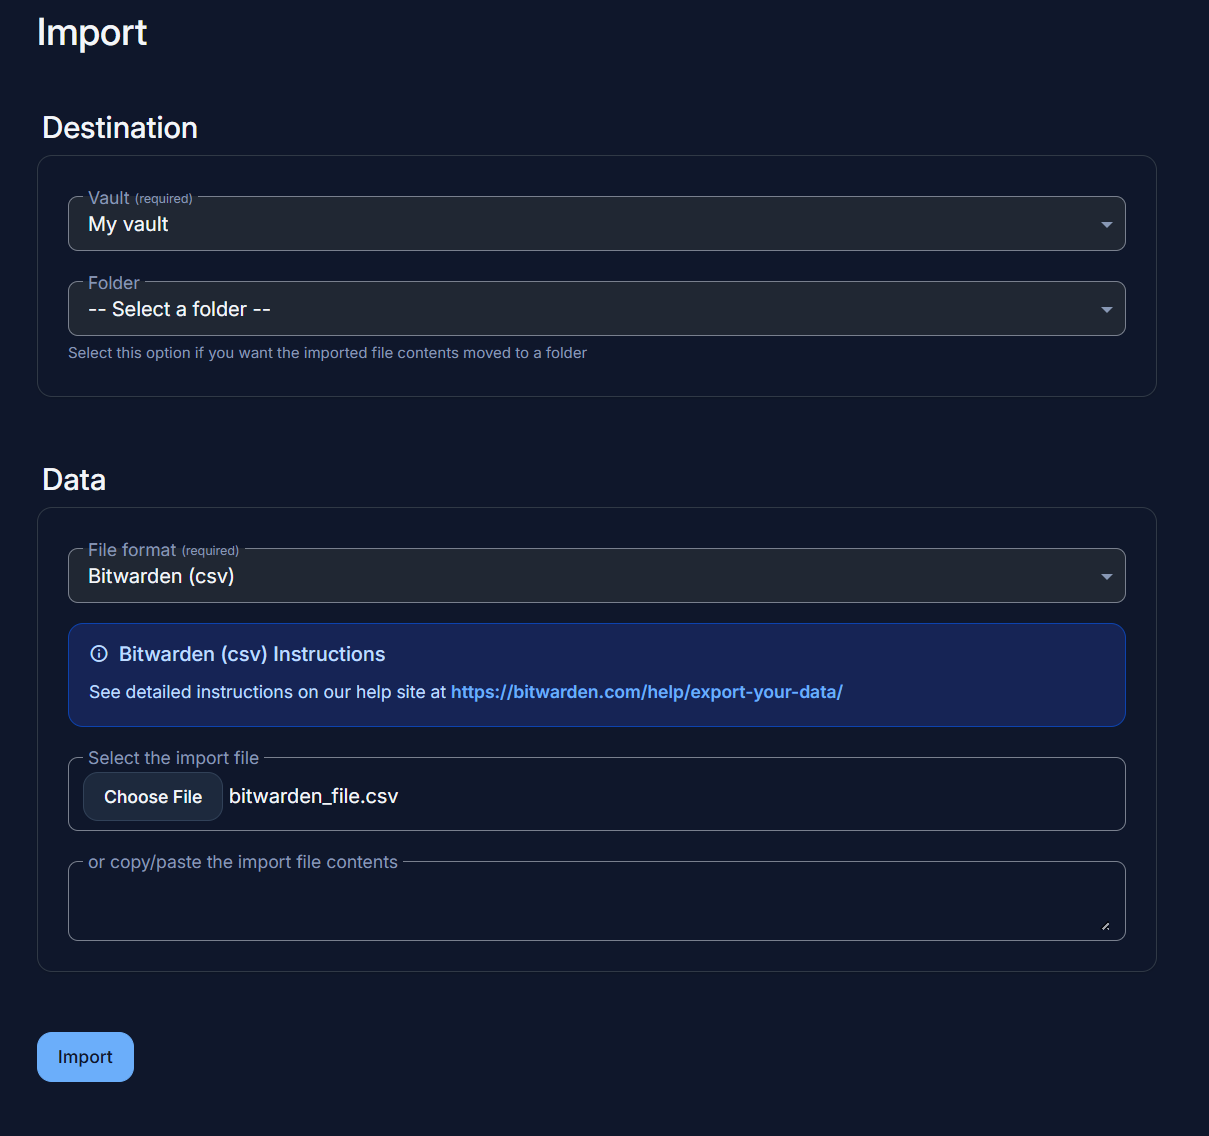
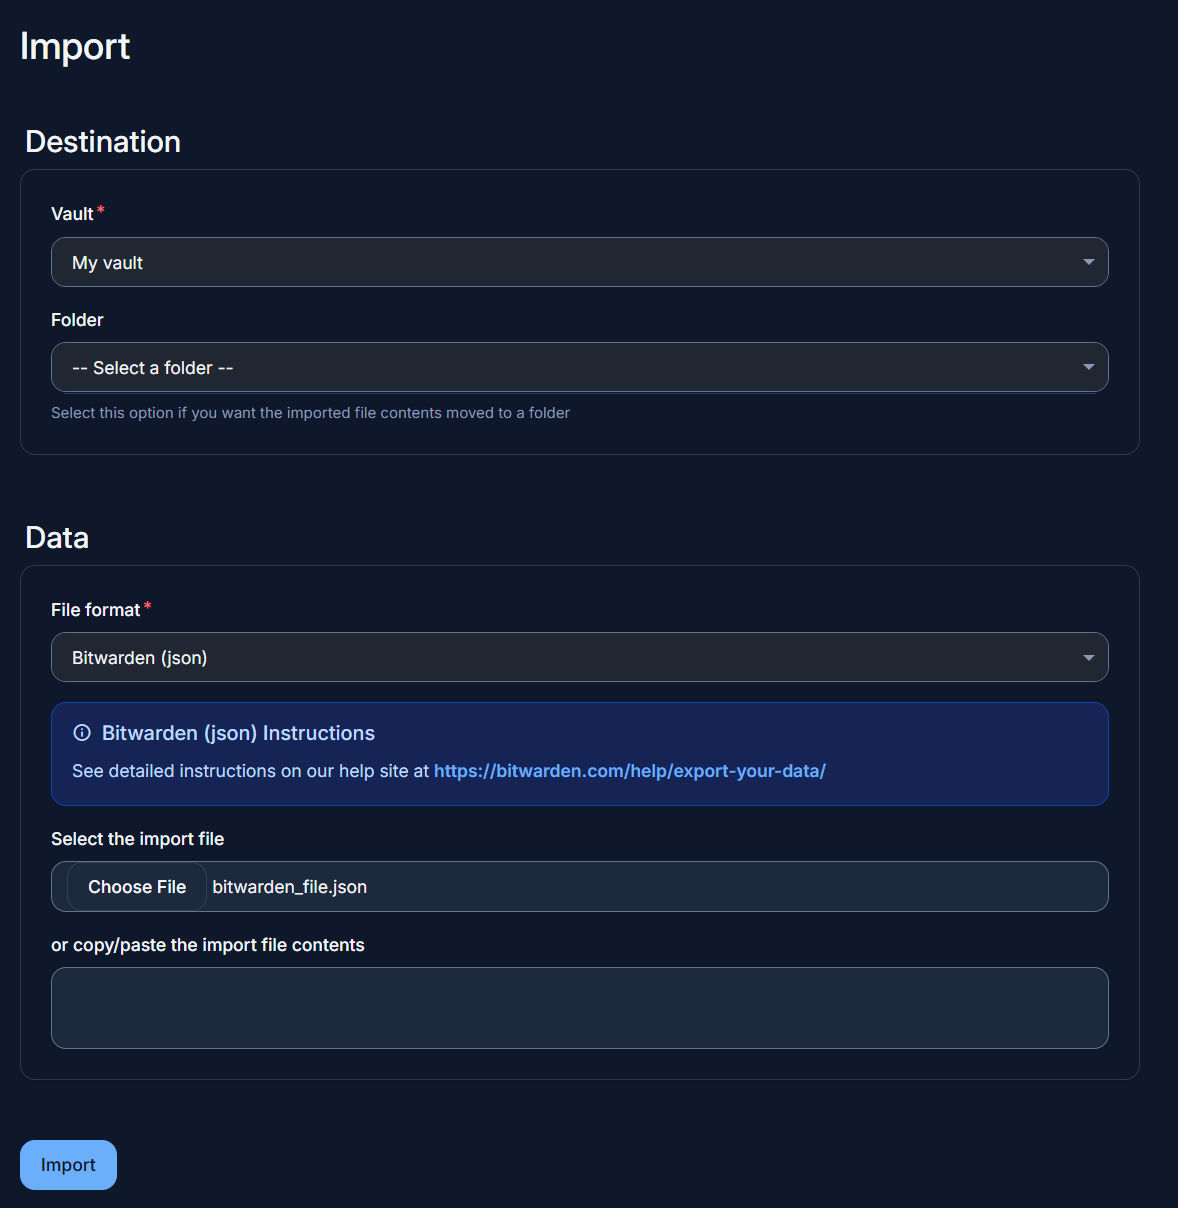
Update readme and import wizard screenshot

diff --git a/README.md b/README.md
@@ -1,7 +1,7 @@
 # SynologyC2Password to Bitwarden formatter/translater
 
 ## Description
-Converts a Synology C2 Password export (`.csv`) into a Bitwarden/Vaultwarden importable `.csv`.
+Converts a Synology C2 Password export (`.csv`) into a Bitwarden/Vaultwarden importable `.json` (logins, payment cards, and secure notes ONLY).
 
 ## Getting Started
 First, let's export those juicy passwords from Synology C2 Password:
@@ -19,7 +19,7 @@ Now follow the steps for your OS.
     - Windows Defender SmartScreen may warn you because I'm not a verified publisher. Click `More info` then `Run anyway`.
 2. Put `syno2bw.exe` in the **same folder** as your exported Synology C2 `.csv` file.
 3. **Double-click `syno2bw.exe`.** That's it.
-    - It finds your export, asks you to confirm, converts it, and saves `bitwarden_file.csv` in the same folder.
+    - It finds your export, asks you to confirm, converts it, and saves `bitwarden_file.json` in the same folder.
     - The window stays open so you can read the results (and any skipped entries). Press Enter to close it.
 
 **Tip:** You can also drag your exported `.csv` straight onto `syno2bw.exe` to convert it.
@@ -47,7 +47,7 @@ You can also pass the export directly: `syno2bw.exe "C:\path\to\C2Password_Expor
 3. Put your C2 export `.csv` in the same folder, then run `python3.13 syno2bw.py` and follow the prompts.
 
 Notes:
-- The script writes `bitwarden_file.csv` next to your export, so make sure you have write permission in that folder.
+- The script writes `bitwarden_file.json` next to your export, so make sure you have write permission in that folder.
 - Tested on Python 3.11 and 3.13, but it should work on 3.11+. If you hit an issue, please open one :)
 
 ## Import to Bitwarden/Vaultwarden
@@ -57,9 +57,9 @@ Notes:
 ![import-into-bitwarden](imgs/import-into-bitwarden.png)
 
 3. Under the "Destination" section, you can choose what vault or folder to import into.
-4. Under the "Data" section, make sure the "File format" dropdown is set to `Bitwarden (csv)`.  
+4. Under the "Data" section, make sure the "File format" dropdown is set to `Bitwarden (json)`.
     This is important for the import to work correctly.
-5. Click `Choose file`, pick the `bitwarden_file.csv` the script made, then click `Import data`. Done!
+5. Click `Choose file`, pick the `bitwarden_file.json` the script made, then click `Import data`. Done!
 
 ![import-into-bitwarden-wizard](imgs/import-into-bitwarden-wizard.png)
 
@@ -67,31 +67,50 @@ Notes:
 I wanted to move my passwords from Synology C2 Password to a Vaultwarden instance I set up in Docker. I found [this reddit post](https://www.reddit.com/r/synology/comments/1d21avn/export_c2_password_data/) in the same situation. I only had logins, no cards or notes. Using [this Bitwarden help article](https://bitwarden.com/help/condition-bitwarden-import/) (see the ".csv for individual vault" part), I mapped the C2 fields to the Bitwarden ones.
 
 ### Field mapping (Syno C2 -> Bitwarden)
+
+Every item shares these:
+
 | Bitwarden field | From Synology C2 |
 |---|---|
-| `folder` | left empty, assign during import |
-| `favorite` | `Favorite` (empty if missing) |
-| `type` | always `login` (the C2 export doesn't say the type) |
-| `name` | `Display_Name` |
+| `name` | `Display_Name` (falls back to `Entry_N`) |
+| `favorite` | `Favorite` (true when it has a value) |
+| `folderId` | left empty, pick the folder in the import screen |
 | `notes` | `Notes` |
-| `fields` | left empty, add custom fields by hand after import |
-| `reprompt` | `0` ("Master password re-prompt" off, not in C2. `0 = off`, `1 = on`) |
-| `login_uri` | `Login_URLs` (joined together) |
-| `login_username` | `Login_Username` |
-| `login_password` | `Login_Password` |
-| `login_totp` | `Login_TOTP` |
+| `reprompt` | `0` ("Master password re-prompt" off) |
+
+Logins also map:
+
+| Bitwarden field | From Synology C2 |
+|---|---|
+| `login.uris` | `Login_URLs` (one uri per line) |
+| `login.username` | `Login_Username` |
+| `login.password` | `Login_Password` |
+| `login.totp` | `Login_TOTP` |
+
+Payment cards map:
+
+| Bitwarden field | From Synology C2 (`Others`) |
+|---|---|
+| `card.cardholderName` | `Card_Name` |
+| `card.brand` | `Card_Type` |
+| `card.number` | `Card_Number` |
+| `card.code` | `Card_CVV` |
+| `card.expMonth` / `card.expYear` | `Card_Expiry` |
+| custom field `Card_PIN` (hidden) | `Card_PIN` |
+| custom field `Card_Phone` | `Card_Phone` |
+| custom field `Card_URL` | `Card_URL` |
+
+Secure notes map `Secure_Note` (from `Others`) into the note body.
 
 ### Limitations
-- Only converts Synology C2 Password (`.csv`) to Bitwarden (`.csv`). No bitwarden `.json` format.
-- Every entry becomes a `login`. Other categories (Payment Card, Identity, Bank Account, etc) are not transferred.  
-    The script lists anything it skips so nothing disappears silently.
-- Custom fields are not mapped. Add them manually after importing.
+- Outputs Bitwarden (`.json`). Import using the `Bitwarden (json)` file format.
+- Converts logins, payment cards, and secure notes. Other C2 categories (Identity, Bank Account, etc) are not transferred yet. The script lists anything it skips so nothing disappears silently.
+- Folders are not created. Pick a destination folder in the import screen.
 - "Match detection" is not transferred.
 
 ### Good to know
-- Tested importing into Vaultwarden with the `Bitwarden (.csv)` format, on Python 3.11.5/3.13.11 (Windows 11) and 3.11.9 (Ubuntu 24.04).
+- Tested importing into Vaultwarden with the `Bitwarden (.json)` format, on Python 3.11.5/3.13.11 (Windows 11) and 3.11.9 (Ubuntu 24.04).
 - **DO NOT DELETE ANYTHING** from Synology C2 Password until you are 100% sure everything imported correctly.
-- I'll look into supporting "Payment card" and "Secure note"in the future.
 
 Feedback and suggestions are welcome! I'm not a professional programmer, so please be gentle. I'm learning as I go.
 